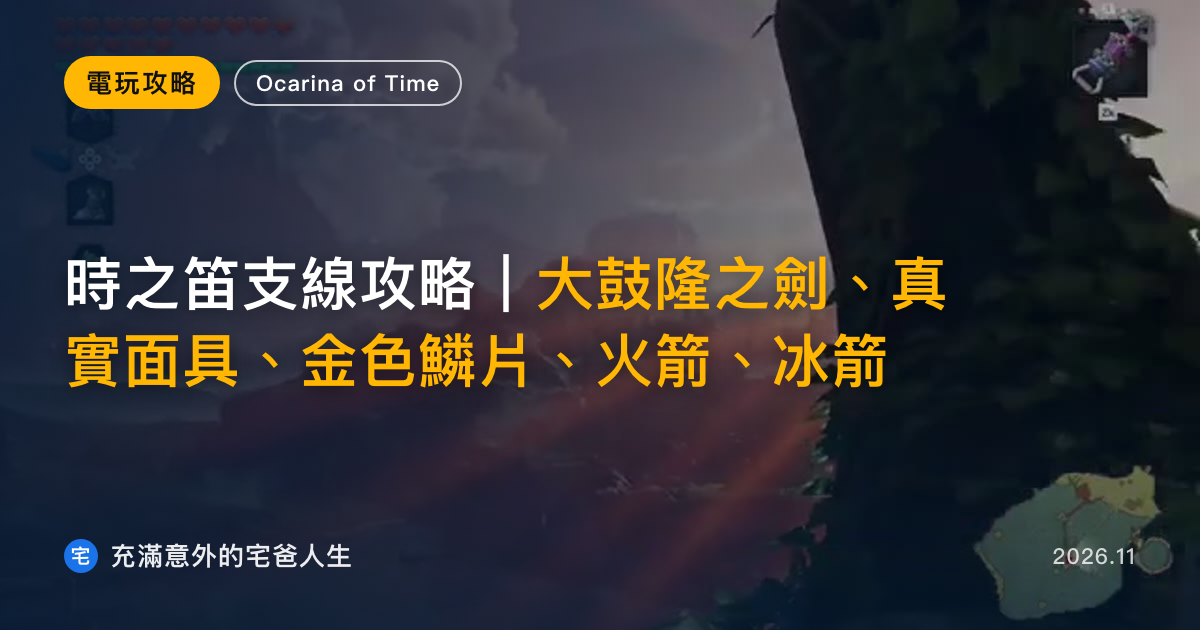
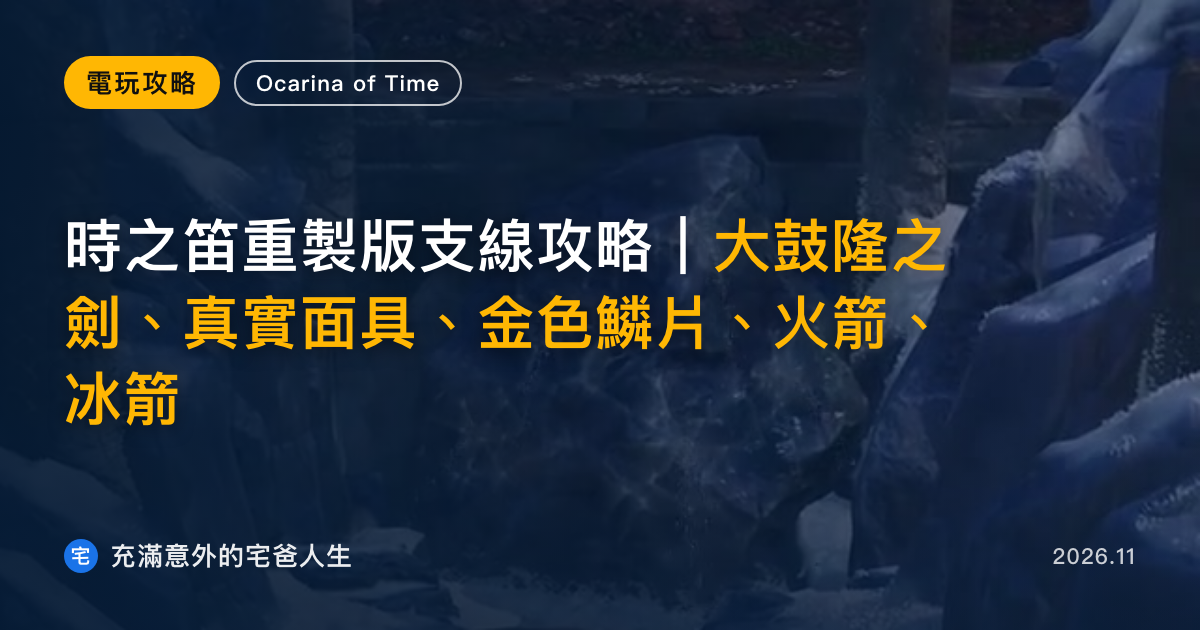
時之笛支線攻略：標題與封面改為「時之笛重製版」

diff --git a/_posts/2026-11-17-zelda-ocarina-of-time-sidequests-guide.md b/_posts/2026-11-17-zelda-ocarina-of-time-sidequests-guide.md
@@ -3,13 +3,13 @@ author: 宅爸
 date: 2026-11-17 12:00:00 +0800
 layout: post
 permalink: /2026/11/zelda-ocarina-of-time-sidequests-guide.html
-title: 時之笛支線攻略｜大鼓隆之劍、真實面具、金色鱗片、火箭、冰箭一篇搞定（含影片時間軸）
-description: 整理《薩爾達傳說 時之笛》五個實用支線：大鼓隆之劍、真實面具、金色鱗片、火箭與冰箭。文章依直播 EP.1～15 的說明欄與影片時間軸，整理每個任務的前置條件、取得步驟、影片連結與截圖，並附上跨集任務的順序表。想拿最強劍、真實面具，或補齊箭矢與鱗片，看這篇就能按圖索驥，不用再從十幾小時的直播裡慢慢找。
+title: 時之笛重製版支線攻略｜大鼓隆之劍、真實面具、金色鱗片、火箭、冰箭一篇搞定（含影片時間軸）
+description: 整理《薩爾達傳說 時之笛》重製版五個實用支線：大鼓隆之劍、真實面具、金色鱗片、火箭與冰箭。文章依直播 EP.1～15 的說明欄與影片時間軸，整理每個任務的前置條件、取得步驟、影片連結與截圖，並附上跨集任務的順序表。想拿最強劍、真實面具，或補齊箭矢與鱗片，看這篇就能按圖索驥，不用再從十幾小時的直播裡慢慢找。
 categories: [電玩]
 tags: [薩爾達傳說, 時之笛, Ocarina of Time, 支線任務, 遊戲攻略, 大鼓隆之劍, 真實面具, 金色鱗片, 火箭, 冰箭]
 image:
   path: /assets/images/cover/zelda-ocarina-of-time-sidequests-guide.png
-  alt: 時之笛支線攻略封面，整理大鼓隆之劍、真實面具、金色鱗片、火箭與冰箭
+  alt: 時之笛重製版支線攻略封面，整理大鼓隆之劍、真實面具、金色鱗片、火箭與冰箭
 ---
 
 《薩爾達傳說 時之笛》這五個支線，照這篇的順序解就對了：**大鼓隆之劍**（EP.6→EP.12）、**真實面具**（EP.3→EP.11）、**金色鱗片**（EP.12）、**火箭**（EP.13）、**冰箭**（EP.12→EP.14）。下面把每一段的影片連結、時間軸與截圖都整理在一起，想直接看某個任務，點目錄跳過去就好。
